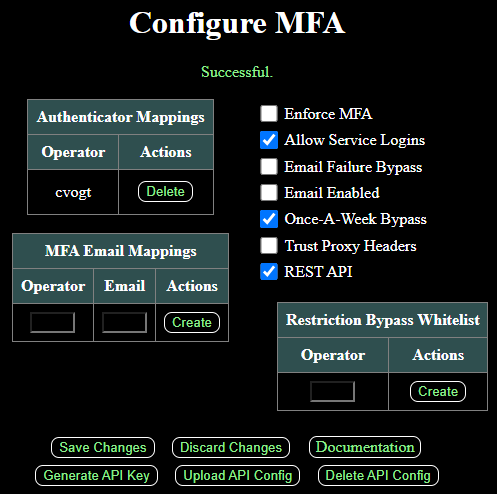
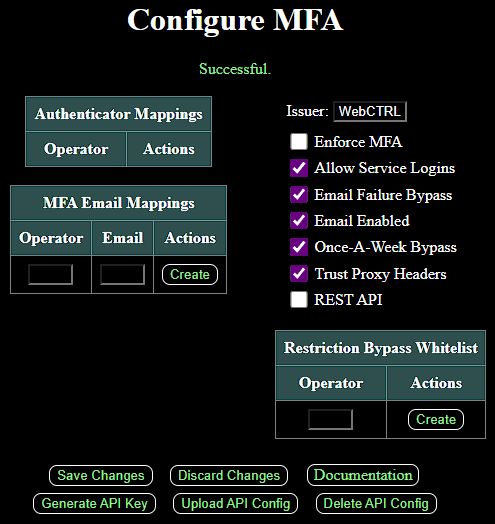
v0.3.4 Update Added a custom issuer setting Updated README

diff --git a/src/aces/webctrl/mfa/resources/MainPage.html b/src/aces/webctrl/mfa/resources/MainPage.html
@@ -74,6 +74,10 @@
           const cookiesEnabled = cookiesEnabledCheckbox.checked;
           const trustProxyHeaders = trustProxyHeadersCheckbox.checked;
           const apiEnabled = apiEnabledCheckbox.checked;
+          const _issuer = issuerField.value?.trim() || "WebCTRL";
+          const issuer = _issuer.length>40?_issuer.substring(0,40):_issuer;
+          issuerField.value = issuer;
+          resize(issuerField);
           const _mappings = [];
           for (const e of document.getElementById("mappingBody").getElementsByTagName("TR")){
             if (e.mfa_operator && e.mfa_email){
@@ -116,6 +120,7 @@
             "&cookiesEnabled="+encodeURIComponent(cookiesEnabled)+
             "&trustProxyHeaders="+encodeURIComponent(trustProxyHeaders)+
             "&apiEnabled="+encodeURIComponent(apiEnabled)+
+            "&issuer="+encodeURIComponent(issuer)+
             "&mappings="+encodeURIComponent(mappings)+
             "&whitelist="+encodeURIComponent(whitelist)
           );
@@ -268,6 +273,8 @@
         cookiesEnabledCheckbox.checked = data["cookiesEnabled"];
         trustProxyHeadersCheckbox.checked = data["trustProxyHeaders"];
         apiEnabledCheckbox.checked = data["apiEnabled"];
+        issuerField.value = data["issuer"];
+        resize(issuerField);
         const mappingBody = document.getElementById("mappingBody");
         while (mappingBody.children.length>1){
           mappingBody.removeChild(mappingBody.firstElementChild);
@@ -487,7 +494,11 @@
           </div>
         </div>
         <div class="column">
-          <div style="text-align:left">
+          <div style="text-align:left;margin-left:2em">
+            <div class="divGrouping" title="This field will be displayed in your authenticator app after scanning QR codes. It is intended to uniquely identify this server.">
+              <label for="issuerField">Issuer:</label>
+              <input class="c" type="text" id="issuerField" spellcheck="false" oninput="resize(this);registerChange()">
+            </div>
             <div class="divGrouping2" title="Specifies whether to force all users to use MFA.">
               <input type="checkbox" id="enforceMFACheckbox" oninput="registerChange()" style="width:1.3em;height:1.3em;vertical-align:middle">
               <label for="enforceMFACheckbox" style="vertical-align:middle">Enforce MFA</label>
@@ -555,6 +566,7 @@
       resize(usernameField);
       resize(usernameField2);
       resize(emailField);
+      resize(issuerField);
       usernameField.addEventListener("keypress", function (e){
         if (e.key==="Enter"){
           e.preventDefault();

diff --git a/src/aces/webctrl/mfa/web/MainPage.java b/src/aces/webctrl/mfa/web/MainPage.java
@@ -43,7 +43,8 @@ public class MainPage extends ServletBase {
         final String cookiesEnabled = req.getParameter("cookiesEnabled");
         final String mappings = req.getParameter("mappings");
         final String whitelist = req.getParameter("whitelist");
-        if (enforceMFA==null || allowServiceLogins==null || bypassOnEmailFailure==null || mappings==null || whitelist==null || emailEnabled==null || apiEnabled==null || trustProxyHeaders==null || cookiesEnabled==null){
+        final String issuer = req.getParameter("issuer");
+        if (enforceMFA==null || allowServiceLogins==null || bypassOnEmailFailure==null || mappings==null || whitelist==null || emailEnabled==null || apiEnabled==null || trustProxyHeaders==null || cookiesEnabled==null || issuer==null){
           res.setStatus(400);
           return;
         }
@@ -54,6 +55,7 @@ public class MainPage extends ServletBase {
         boolean _apiEnabled;
         boolean _trustProxyHeaders;
         boolean _cookiesEnabled;
+        String _issuer;
         ArrayList<String> _mappings;
         ArrayList<String> _whitelist;
         try{
@@ -66,6 +68,11 @@ public class MainPage extends ServletBase {
           _cookiesEnabled = Boolean.parseBoolean(cookiesEnabled);
           _mappings = Utility.decodeList(mappings);
           _whitelist = Utility.decodeList(whitelist);
+          _issuer = issuer.trim();
+          _issuer = _issuer.isEmpty()?"WebCTRL":_issuer;
+          if (_issuer.length()>40){
+            _issuer = _issuer.substring(0,40);
+          }
         }catch(Throwable t){
           Initializer.log(t);
           res.setStatus(400);
@@ -91,6 +98,7 @@ public class MainPage extends ServletBase {
         Config.apiEnabled = _apiEnabled;
         Config.trustProxyHeaders = _trustProxyHeaders;
         Config.cookiesEnabled = _cookiesEnabled;
+        Config.issuerName = _issuer;
         Config.setWhitelist(_whitelist);
         Config.checkCookies(map.keySet());
         Config.setEmails(map);
@@ -100,14 +108,15 @@ public class MainPage extends ServletBase {
       case "load":{
         final StringBuilder sb = new StringBuilder(1024);
         sb.append(Utility.format(
-          "{\"enforceMFA\":$0,\"allowServiceLogins\":$1,\"bypassOnEmailFailure\":$2,\"emailEnabled\":$3,\"apiEnabled\":$4,\"trustProxyHeaders\":$5,\"cookiesEnabled\":$6,",
+          "{\"enforceMFA\":$0,\"allowServiceLogins\":$1,\"bypassOnEmailFailure\":$2,\"emailEnabled\":$3,\"apiEnabled\":$4,\"trustProxyHeaders\":$5,\"cookiesEnabled\":$6,\"issuer\":\"$7\",",
           Config.enforceMFA,
           Config.allowServiceLogins,
           Config.bypassOnEmailFailure,
           Config.emailEnabled,
           Config.apiEnabled,
           Config.trustProxyHeaders,
-          Config.cookiesEnabled
+          Config.cookiesEnabled,
+          Utility.escapeJSON(Config.issuerName)
         ));
         sb.append("\"mappings\":");
         Config.printEmails(sb);

diff --git a/src/aces/webctrl/mfa/core/Config.java b/src/aces/webctrl/mfa/core/Config.java
@@ -84,6 +84,10 @@ public class Config {
    */
   private volatile static long nextURLCheck = 0;
   /**
+   * Specifies the name of the issuer for the TOTP tokens.
+   */
+  public volatile static String issuerName = "WebCTRL";
+  /**
    * Sets the path to the saved data file and attempts to load any available data.
    */
   public static void init(Path mainFile, Path urlFile, Path cookieFile){
@@ -796,8 +800,11 @@ public class Config {
           whitelistLock.writeLock().unlock();
         }
         if (!s.end()){
-          Initializer.log("Data file corrupted.");
-          return false;
+          issuerName = s.readString();
+          if (!s.end()){
+            Initializer.log("Data file corrupted.");
+            return false;
+          }
         }
       }
       if (Files.exists(cookieFile)){
@@ -881,6 +888,7 @@ public class Config {
       }finally{
         whitelistLock.readLock().unlock();
       }
+      s.write(issuerName);
       ByteBuffer buf = s.getBuffer();
       synchronized(Config.class){
         try(

diff --git a/src/aces/webctrl/mfa/core/Initializer.java b/src/aces/webctrl/mfa/core/Initializer.java
@@ -6,6 +6,9 @@ import javax.servlet.*;
 import java.nio.file.*;
 import java.util.*;
 import java.net.URISyntaxException;
+// # TODO
+// - Implement **Bypass MFA on Upstream Server Failure** option that is enabled by default
+//   - Maybe implement cache so that only api users are blocked when the api server is inaccessible
 /**
  * This class contains most of the life-cycle management logic for this add-on.
  */

diff --git a/src/aces/webctrl/mfa/core/Utility.java b/src/aces/webctrl/mfa/core/Utility.java
@@ -76,7 +76,7 @@ public class Utility {
       builder.withAlgorithm(HMACAlgorithm.SHA1);//deprecated, but Google Authenticator does not support any stronger algorithms
     })
     .withPeriod(java.time.Duration.ofSeconds(30))
-    .build().getURI("WebCTRL", user).toString();
+    .build().getURI(Config.issuerName, user).toString();
   }
   /**
    * @return a hex string representation of the given bytes.

diff --git a/README.md b/README.md
@@ -27,6 +27,7 @@ Users can be added to a restriction bypass whitelist which makes them behave as 
 
 | Setting | Default | Description |
 | - | - | - |
+| ***Issuer*** | `WebCTRL` | This field will be displayed in your authenticator app after scanning QR codes. It is intended to uniquely identify this server. A length limit of 40 characters is enforced. |
 | ***Enforce MFA*** | `false` | When MFA is enforced, all non-whitelisted users will be forced to configure MFA when they login. |
 | ***Allow Service Logins*** | `true` | When unchecked, non-whitelisted users with MFA enabled will be unable to login to WebCTRL services such as SOAP and TELNET (these services are incompatible with MFA). |
 | ***Bypass MFA on Email Server Failure*** | `true` | When WebCTRL fails to connect to its email server, MFA security codes cannot be sent. This option permits MFA to be bypassed in such a case. Otherwise, non-whitelisted users with MFA enabled will not be able to login. |
